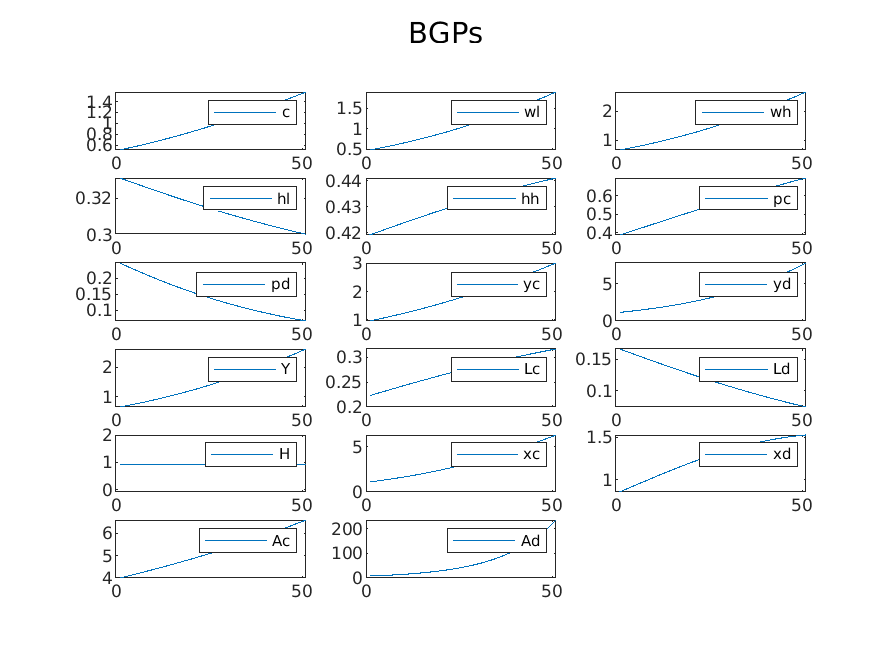
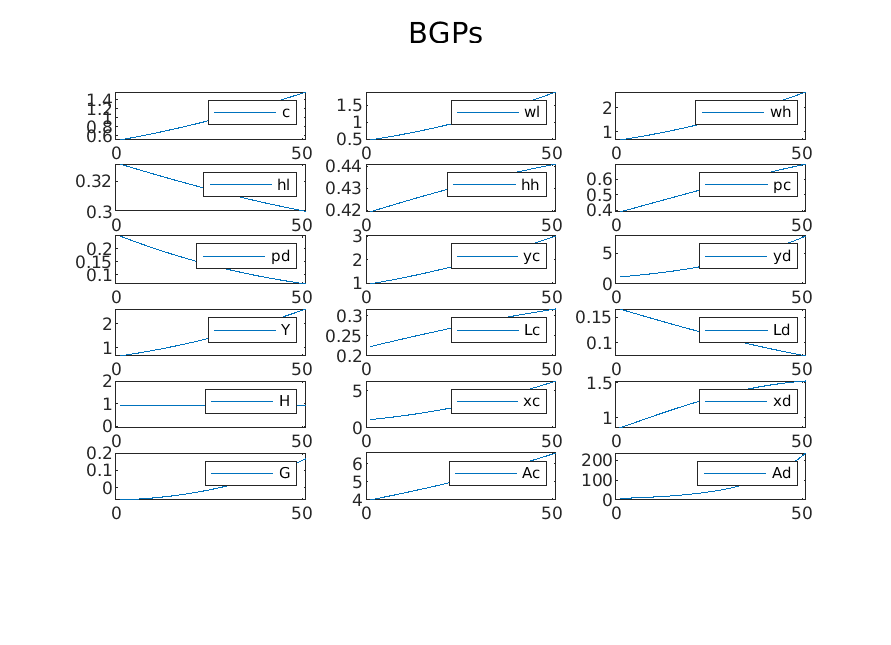
missed government revenues

diff --git a/codding_model/Own/model_tosolve.m b/codding_model/Own/model_tosolve.m
@@ -3,32 +3,35 @@ function model_num = model_tosolve(in1)
 %    MODEL_NUM = MODEL_TOSOLVE(IN1)
 
 %    This function was generated by the Symbolic Math Toolbox version 8.6.
-%    29-Jan-2022 12:16:34
+%    29-Jan-2022 15:17:14
 
 Acp = in1(:,1);
 Adp = in1(:,2);
-H = in1(:,3);
-Lc = in1(:,4);
-Ld = in1(:,5);
-Y = in1(:,6);
-c = in1(:,7);
-hh = in1(:,8);
-hl = in1(:,9);
-lhc = in1(:,10);
-lhd = in1(:,11);
-llc = in1(:,12);
-lld = in1(:,13);
-pc = in1(:,14);
-pcL = in1(:,15);
-pd = in1(:,16);
-pdL = in1(:,17);
-wh = in1(:,18);
-wl = in1(:,19);
-xc = in1(:,20);
-xd = in1(:,21);
-yc = in1(:,22);
-yd = in1(:,23);
-t2 = 1.0./wh;
-t3 = 1.0./wl;
-t4 = sqrt(3.0);
-model_num = [c-(H.*wl).^(8.19e+2./1.0e+3),H-(8.19e+2.^(3.0./7.0).*1.0e+3.^(4.0./7.0))./1.0e+3,t3.*wh-1.0,-H+hh+hl,Y-1.0./(1.0./yc.^(3.0./2.0)+1.0./yd.^(3.0./2.0)).^(2.0./3.0),yd-yc.*(pc./pd).^(2.0./5.0),yc-Lc.*sqrt(pc).*t4.*6.578527287375533,pcL-pc.^(3.0./2.0).*t4.*4.385684858250356,yd-Ld.*sqrt(pd).*t4.*2.356562005045705e+2,pdL-pd.^(3.0./2.0).*t4.*1.571041336697137e+2,Lc-lhc.^(7.0./1.0e+1).*llc.^(3.0./1.0e+1),Ld-lhd.^(1.4e+1./2.5e+1).*lld.^(1.1e+1./2.5e+1),lhc-llc.*(pcL.*t2.*(7.0./1.0e+1)).^(1.0e+1./3.0),llc-lhc.*(pcL.*t3.*(3.0./1.0e+1)).^(1.0e+1./7.0),lhd-lld.*(pdL.*t2.*(1.4e+1./2.5e+1)).^(2.5e+1./1.1e+1),lld-lhd.*(pdL.*t3.*(1.1e+1./2.5e+1)).^(2.5e+1./1.4e+1),Acp-6.644312560249289,Adp-2.521521345398904e+2,(pc.^(3.0./5.0)+pd.^(3.0./5.0)).^(5.0./3.0)-1.0,-hh+lhc+lhd,-hl+llc+lld,xd-Ld.*(pd.*3.0).^(3.0./2.0).*2.356562005045705e+2,xc-Lc.*(pc.*3.0).^(3.0./2.0).*6.578527287375533];
+G = in1(:,3);
+H = in1(:,4);
+Lc = in1(:,5);
+Ld = in1(:,6);
+Y = in1(:,7);
+c = in1(:,8);
+hh = in1(:,9);
+hl = in1(:,10);
+lhc = in1(:,11);
+lhd = in1(:,12);
+llc = in1(:,13);
+lld = in1(:,14);
+pc = in1(:,15);
+pcL = in1(:,16);
+pd = in1(:,17);
+pdL = in1(:,18);
+wh = in1(:,19);
+wl = in1(:,20);
+xc = in1(:,21);
+xd = in1(:,22);
+yc = in1(:,23);
+yd = in1(:,24);
+t2 = H.*wl;
+t3 = 1.0./wh;
+t4 = 1.0./wl;
+t5 = sqrt(3.0);
+t6 = t2.^(8.19e+2./1.0e+3);
+model_num = [c-t6,H-(8.19e+2.^(3.0./7.0).*1.0e+3.^(4.0./7.0))./1.0e+3,t4.*wh-7.0./5.0,-H+hh.*(7.0./5.0)+hl,Y-1.0./(1.0./yc.^(3.0./2.0)+1.0./yd.^(3.0./2.0)).^(2.0./3.0),yd-yc.*(pc./pd).^(2.0./5.0),yc-Lc.*sqrt(pc).*t5.*6.578527287375533,pcL-pc.^(3.0./2.0).*t5.*4.385684858250356,yd-Ld.*sqrt(pd).*t5.*2.356562005045705e+2,pdL-pd.^(3.0./2.0).*t5.*1.571041336697137e+2,Lc-lhc.^(7.0./1.0e+1).*llc.^(3.0./1.0e+1),Ld-lhd.^(1.4e+1./2.5e+1).*lld.^(1.1e+1./2.5e+1),lhc-llc.*(pcL.*t3.*(7.0./1.0e+1)).^(1.0e+1./3.0),llc-lhc.*(pcL.*t4.*(3.0./1.0e+1)).^(1.0e+1./7.0),lhd-lld.*(pdL.*t3.*(1.4e+1./2.5e+1)).^(2.5e+1./1.1e+1),lld-lhd.*(pdL.*t4.*(1.1e+1./2.5e+1)).^(2.5e+1./1.4e+1),Acp-6.644312560249289,Adp-2.521521345398904e+2,(pc.^(3.0./5.0)+pd.^(3.0./5.0)).^(5.0./3.0)-1.0,-hh+lhc+lhd,-hl+llc+lld,xd-Ld.*(pd.*3.0).^(3.0./2.0).*2.356562005045705e+2,xc-Lc.*(pc.*3.0).^(3.0./2.0).*6.578527287375533,G-t2+t6];

diff --git a/writing/simplemodel_fisc.tex b/writing/simplemodel_fisc.tex
@@ -149,7 +149,9 @@ H_t=\zeta h_{ht}+h_{lt}
 %
 \text{Demand low skill dirty sector } \hspace{4mm}&l_{ldt}= \left(\frac{p_{dLt}}{w_{lt}}\right)^{\frac{1}{\theta_d}}(1-\theta_d)^{\frac{1}{\theta_d}}l_{hdt}\\
 \text{\textbf{Market clearing}}& \nonumber\\
-\text{Final Good}\hspace{4mm}& Y_{t}=c_t+\psi\left(\int_{0}^1x_{idt}di+\int_{0}^1x_{ict}di\right)%\psi \left(\int_0^1\left(\alpha\frac{p_{dt}}{\psi}\right)^\frac{1}{1-\alpha}A_{idt}L_{dt}+\int_0^1\left(\alpha\frac{p_{ct}}{\psi}\right)^\frac{1}{1-\alpha}A_{ict}L_{ct}\right)
+\text{Budget}\hspace{4mm}& G_t=H_tw_{lt}-\lambda_t(H_t w_{lt})^{(1-\tau_{lt})}\\
+\text{\textbf{Market clearing}}& \nonumber\\
+\text{Final Good}\hspace{4mm}& Y_{t}=c_t+\psi\left(\int_{0}^1x_{idt}di+\int_{0}^1x_{ict}di\right)+G_t%\psi \left(\int_0^1\left(\alpha\frac{p_{dt}}{\psi}\right)^\frac{1}{1-\alpha}A_{idt}L_{dt}+\int_0^1\left(\alpha\frac{p_{ct}}{\psi}\right)^\frac{1}{1-\alpha}A_{ict}L_{ct}\right)
 ;\\
 & \ 
 (\text{Numeraire}\ \  p_t=1)\\
@@ -191,7 +193,7 @@ Using the definition of the aggregate price level, final good production, and op
 since $\frac{L_{c}'}{L_c}=1$.
 Using goods market clearance, the budget condition, and the FOC for total skill supply, it follows that 
 \begin{align}\label{eq:agg_demand}
-\frac{Y'}{Y}= \left(\frac{w'_h}{w_h}\right)^{1-\tau_l}. \hspace{3mm} \text{(Demand side)}
+\frac{Y'}{Y}= \left(\frac{w'_h}{w_h}\right)^{1-\tau_l}. \hspace{3mm} \text{(Demand side)}\tr{\text{wrong, misses gov expenditures... or let lambdaa adjust}}
 \end{align}
 Demand for the labour input good implies that 
 \begin{align}\label{eq:labour income}

diff --git a/codding_model/Own/model_rep_agent.m b/codding_model/Own/model_rep_agent.m
@@ -36,6 +36,7 @@ syms c cp ...           % consumption
     lld lldp ...        % low skill input dirty sector
     xd xdp ...          % machines dirty sector
     xc xcp ...          % machines clean sector
+    G Gp ...            % government revenues (expenditures)
     ...
     ... % productivity
     Ac Acp ...          % productivity clean sector
@@ -175,6 +176,9 @@ f(q)= xd-(alphaa/psii*pd)^(1/(1-alphaa))*Ad*Ld;
 q=q+1;
 f(q)= xc-(alphaa/psii*pc)^(1/(1-alphaa))*Ac*Lc;
 
+% government budget
+q=q+1;
+f(q)= G-(H*wl-lambdaa*(H*wl)^(1-tauul));
 
 fprintf('number model equations: %d', q);
 
@@ -185,8 +189,8 @@ x  = [Ac Ad];
 xp = [Acp Adp]; 
 
 % endogenous variables
-y  =[c wl wh hl hh pc pd yc yd Y Lc Ld pcL pdL lhc llc lhd lld H xc xd];
-yp =[cp wlp whp hlp hhp pcp pdp ycp ydp Yp Lcp Ldp pcLp pdLp lhcp llcp lhdp lldp Hp xcp xdp];
+y  =[c wl wh hl hh pc pd yc yd Y Lc Ld pcL pdL lhc llc lhd lld H xc xd G];
+yp =[cp wlp whp hlp hhp pcp pdp ycp ydp Yp Lcp Ldp pcLp pdLp lhcp llcp lhdp lldp Hp xcp xdp Gp];
 
 % policy variables: in laissez faire as if parameters
 pol  = [lambdaa tauul vc vd];

diff --git a/codding_model/Own/main_rep_agent.m b/codding_model/Own/main_rep_agent.m
@@ -93,7 +93,7 @@ saveas(gcf,path)
 
 p_sim=(y_sim(list.y=='pd',:).^(1-params(list.params=='eppsilon'))+y_sim(list.y=='pc',:).^(1-params(list.params=='eppsilon'))).^(1/(1-params(list.params=='eppsilon')));
 % check market clearing
-demand_output= params(list.params=='psii').*(y_sim(list.y=='xd',:)+y_sim(list.y=='xc',:))+ y_sim(list.y=='c',:);
+demand_output= params(list.params=='psii').*(y_sim(list.y=='xd',:)+y_sim(list.y=='xc',:))+ y_sim(list.y=='c',:)+ y_sim(list.y=='G',:);
 
 figure(2)
 plot(time, p_sim)

diff --git a/codding_model/Own/solution_SS.m b/codding_model/Own/solution_SS.m
@@ -98,6 +98,10 @@ Adp = (1+vd)*Ad;
 % machines
 xd = (alphaa/psii*pd)^(1/(1-alphaa))*Ad*Ld;
 xc = (alphaa/psii*pc)^(1/(1-alphaa))*Ac*Lc;
+
+% gov budget
+G = (H*wl-lambdaa*(H*wl)^(1-tauul));
+
 %% summarise
 levels=eval(vars_tosolve);
 end
